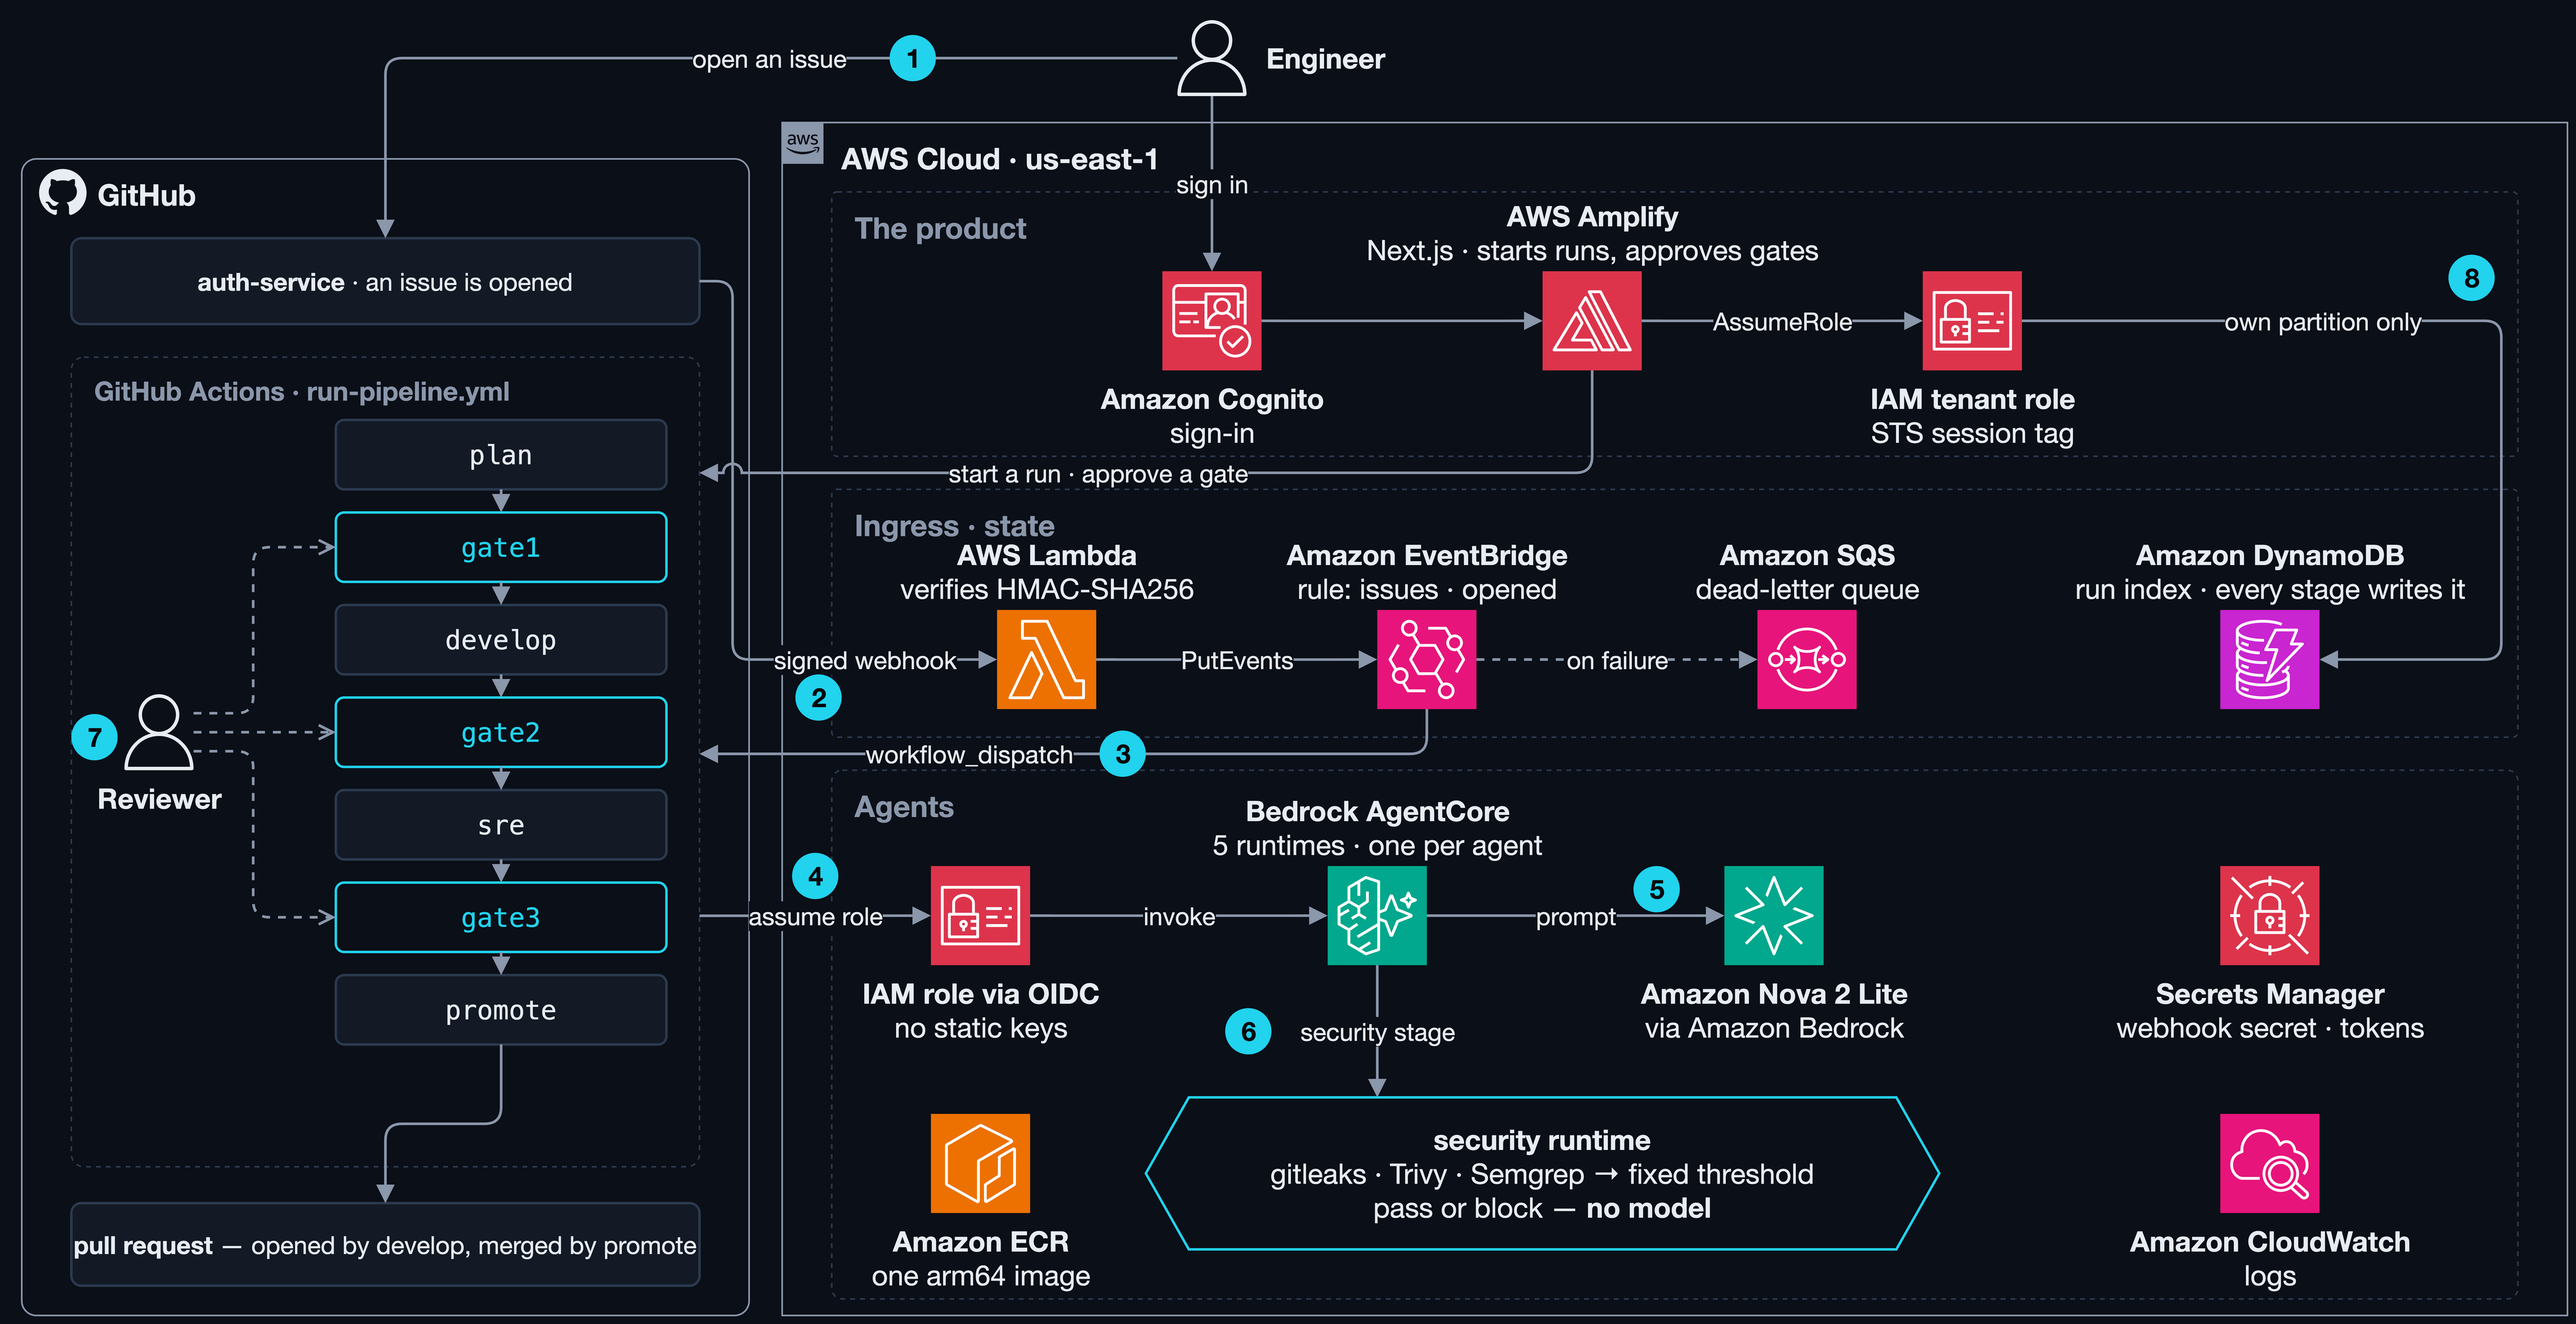
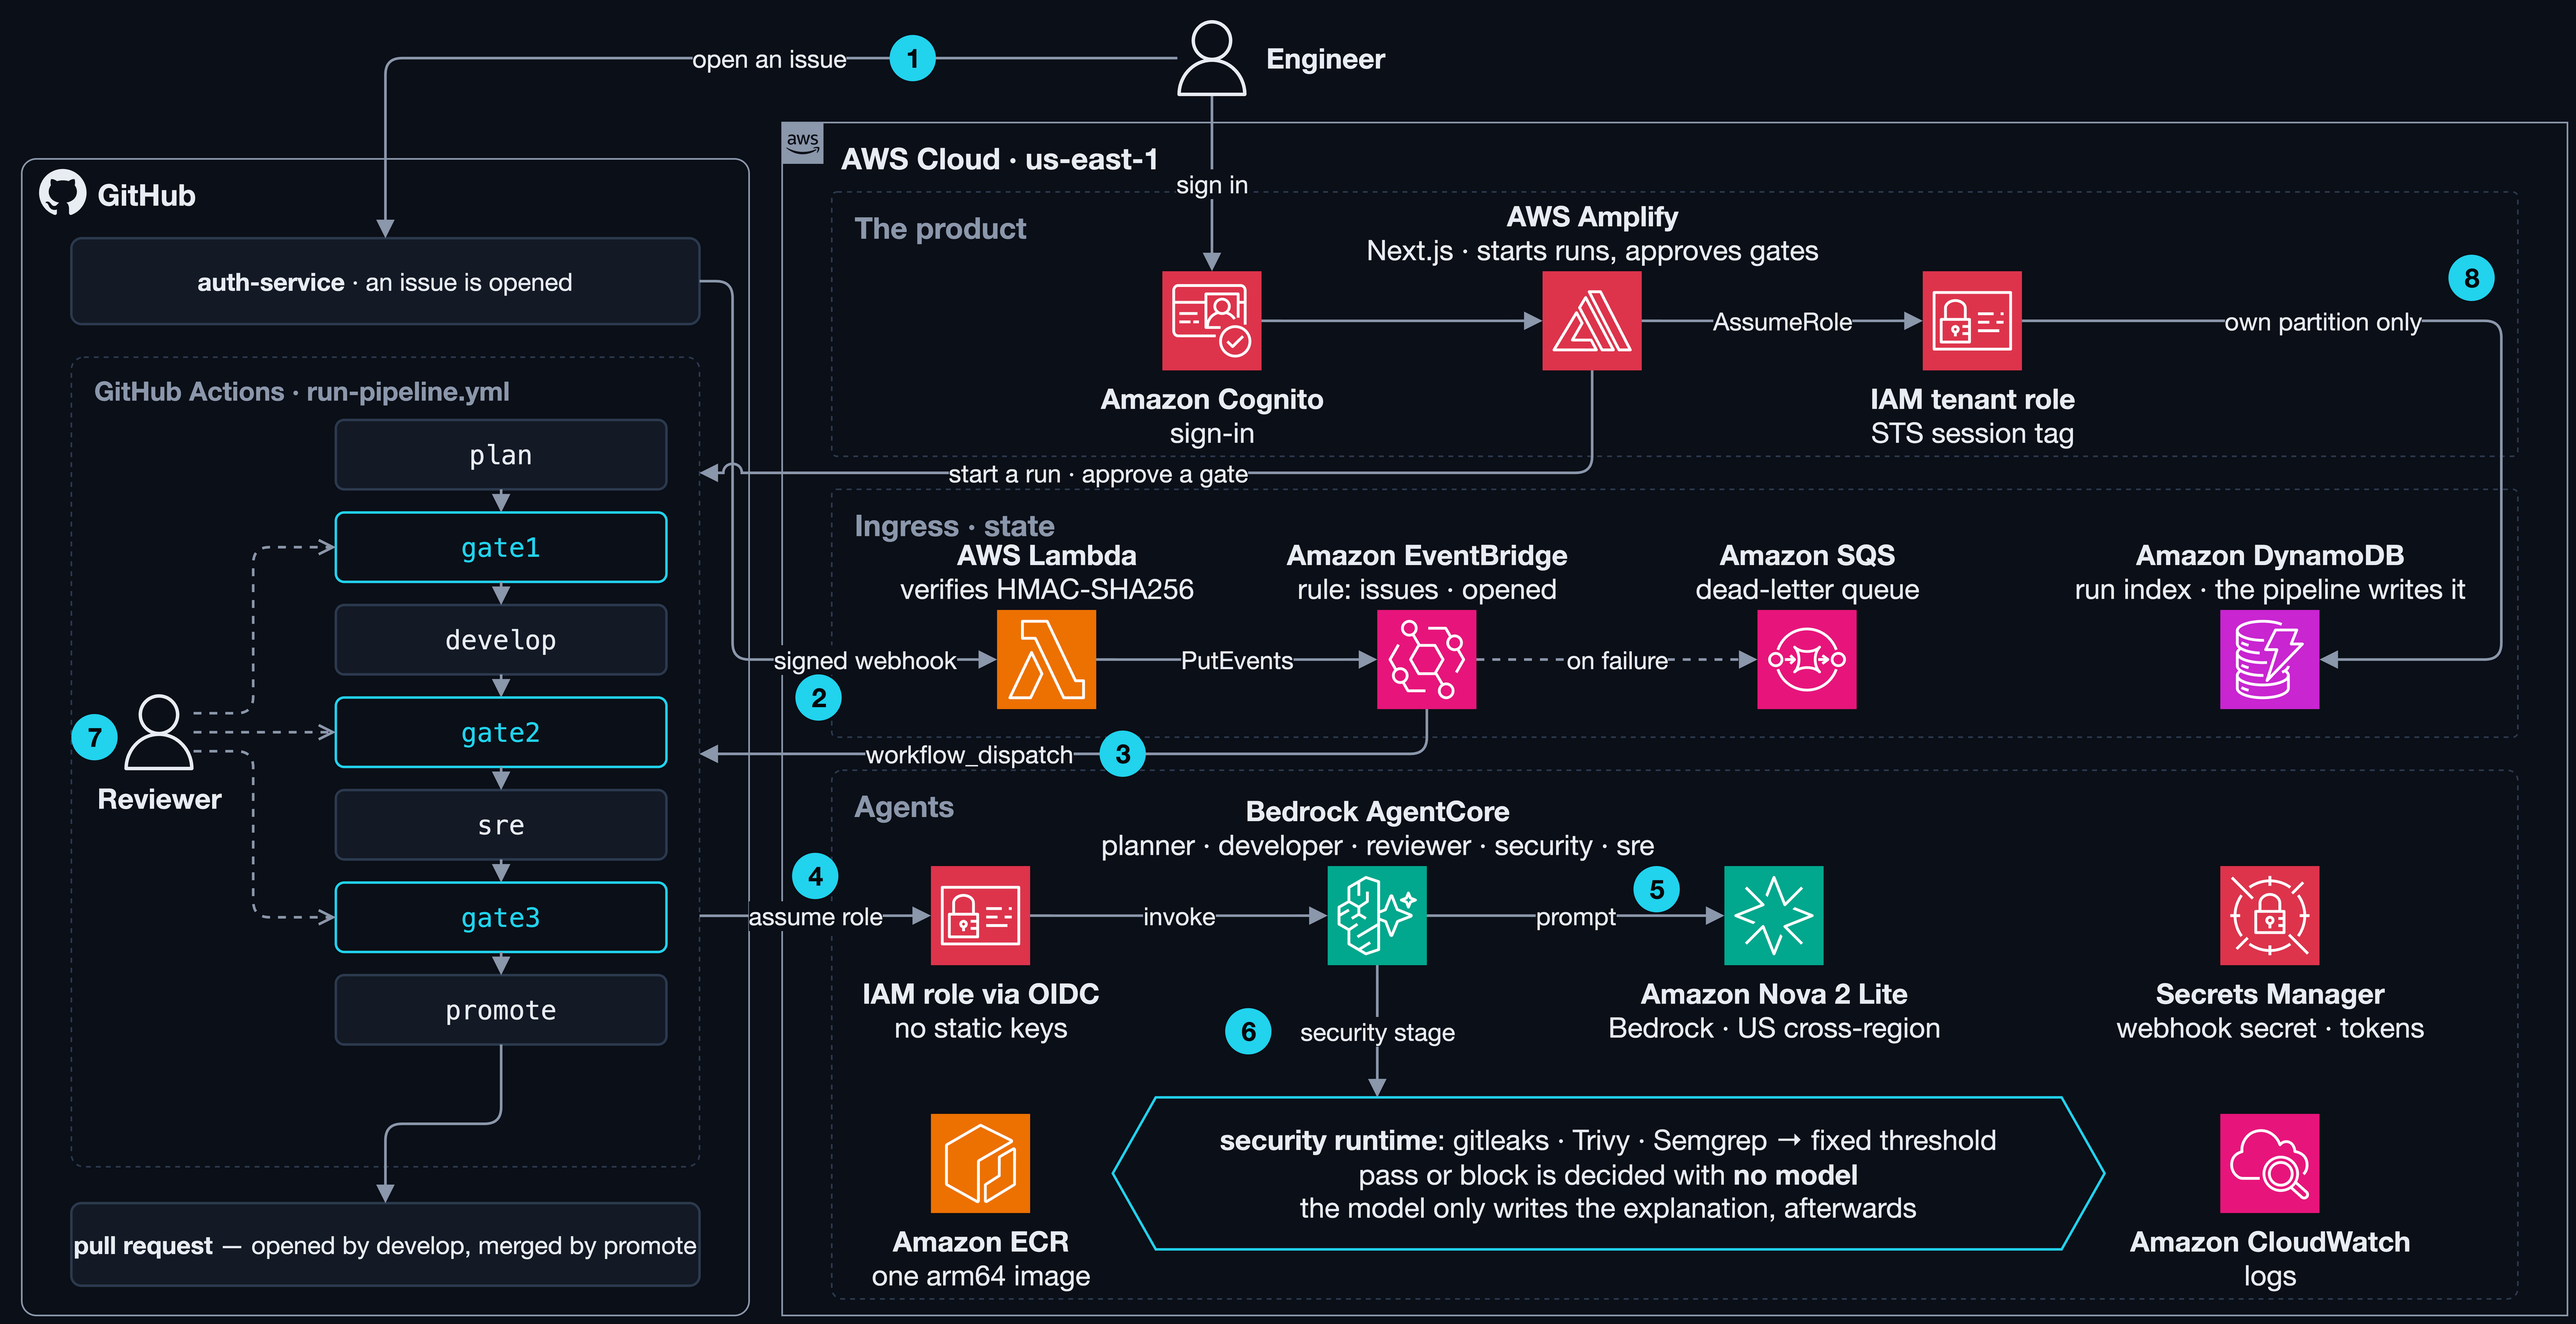
architecture: name all five agents, and say what the model does in security
Checked against the code and the live account:
- "run index · every stage writes it" was false: only plan, develop, sre and
  promote assume the AWS role; the three gate jobs hold no credentials. Now
  "the pipeline writes it".
- AgentCore named no agents, so only the security stage was visible. It now
  lists planner, developer, reviewer, security, sre.
- The hexagon said "no model" beside an arrow into Nova. Both halves are true
  (security.run decides with compute_security_verdict, then asks the model for
  the explanation), and it now says both.
- Nova 2 Lite is reached through a US cross-region profile routing to
  us-east-1, us-east-2 and us-west-2 (get-inference-profile), not us-east-1.

diff --git a/talks/devops-hackathon-final/architecture/make_architecture.py b/talks/devops-hackathon-final/architecture/make_architecture.py
@@ -83,20 +83,26 @@ def diagram() -> drawio.Diagram:
     d.icon("sqs", "sqs", 1060, 365, "Amazon SQS", "dead-letter queue",
            AWS["integration"], label_above=True)
     d.icon("ddb", "dynamodb", 1340, 365, "Amazon DynamoDB",
-           "run index · every stage writes it", AWS["database"], label_above=True)
+           "run index · the pipeline writes it", AWS["database"], label_above=True)
 
     d.icon("oidc", "identity_and_access_management", 560, 520, "IAM role via OIDC",
            "no static keys", AWS["security"])
     d.icon("agentcore", "bedrock_agentcore", 800, 520, "Bedrock AgentCore",
-           "5 runtimes · one per agent", AWS["ai"], label_above=True)
-    d.icon("nova", "nova2", 1040, 520, "Amazon Nova 2 Lite", "via Amazon Bedrock", AWS["ai"])
+           "planner · developer · reviewer · security · sre", AWS["ai"], label_above=True)
+    d.icon("nova", "nova2", 1040, 520, "Amazon Nova 2 Lite", "Bedrock · US cross-region", AWS["ai"])
     d.icon("secrets", "secrets_manager", 1340, 520, "Secrets Manager",
            "webhook secret · tokens", AWS["security"])
     d.icon("ecr", "ecr", 560, 670, "Amazon ECR", "one arm64 image", AWS["containers"])
     d.icon("cw", "cloudwatch_2", 1340, 670, "Amazon CloudWatch", "logs", AWS["management"])
-    d.hexagon("rule", 690, 660, 480, 92,
-              "<b>security runtime</b><br>gitleaks · Trivy · Semgrep → fixed threshold"
-              "<br>pass or block — <b>no model</b>")
+    # THE MODEL IS IN THE SECURITY RUNTIME, AND THE HEXAGON SAYS WHAT FOR. Asked of
+    # the first version, which read "pass or block — no model" beside an arrow into
+    # Nova: "I see an AI model, yet you say the security gate uses none?" Both were
+    # true -- `security.run` decides with `compute_security_verdict`, THEN asks the
+    # model for the explanation -- and the picture showed only the first half.
+    d.hexagon("rule", 670, 660, 600, 92,
+              "<b>security runtime</b>: gitleaks · Trivy · Semgrep → fixed threshold"
+              "<br>pass or block is decided with <b>no model</b>"
+              "<br>the model only writes the explanation, afterwards")
 
     # ── the request's path, numbered the way AWS reference architectures do ──
     d.edge("e1", "eng", "issue", "open an issue", points=[(230, 31)],
@@ -111,7 +117,7 @@ def diagram() -> drawio.Diagram:
     d.edge("e4b", "oidc", "agentcore", "invoke")
     d.edge("e5", "agentcore", "nova", "prompt")
     d.edge("e6", "agentcore", "rule", "security stage",
-           style="exitX=0.5;exitY=1;entryX=0.2917;entryY=0;")
+           style="exitX=0.5;exitY=1;entryX=0.2667;entryY=0;")
 
     # ── the product ──
     d.edge("signin", "eng", "cognito", "sign in",
